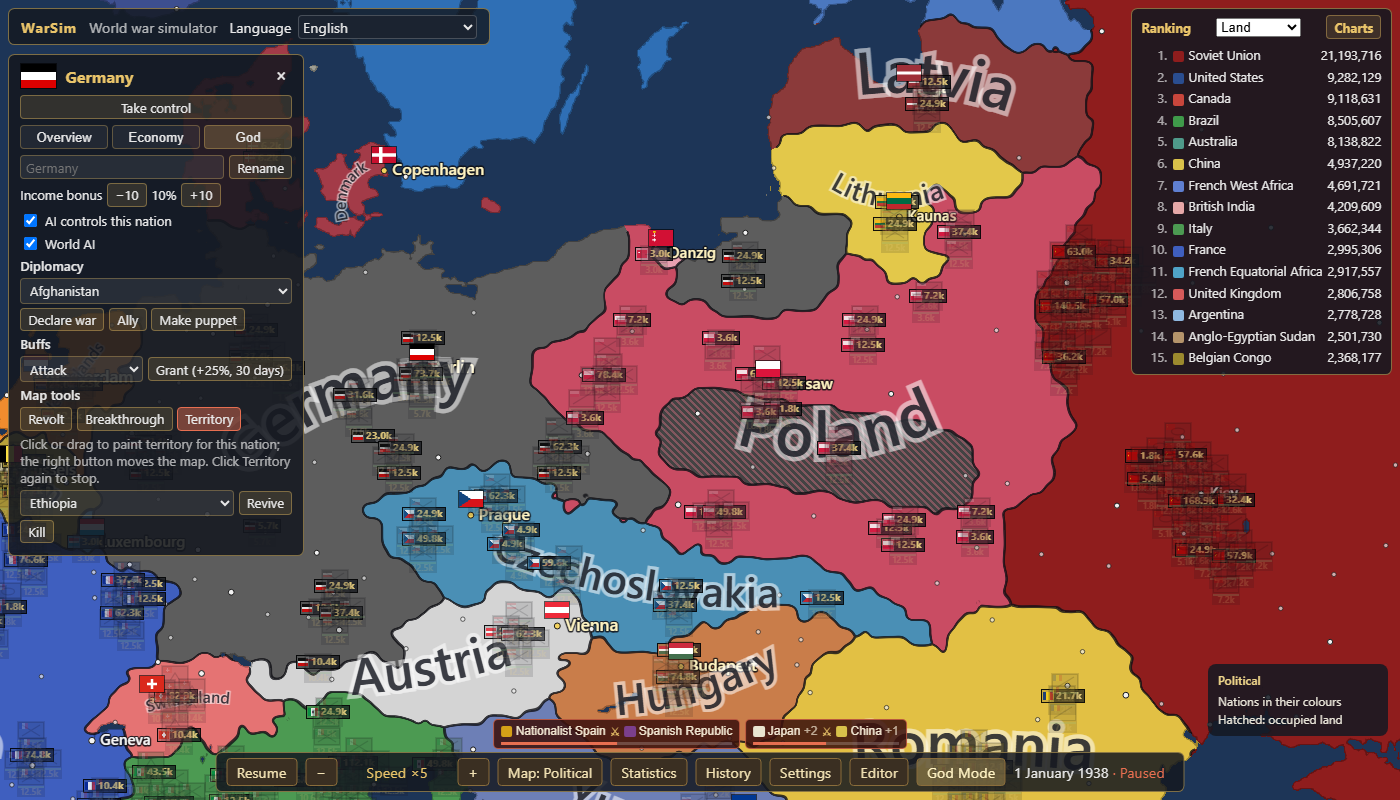
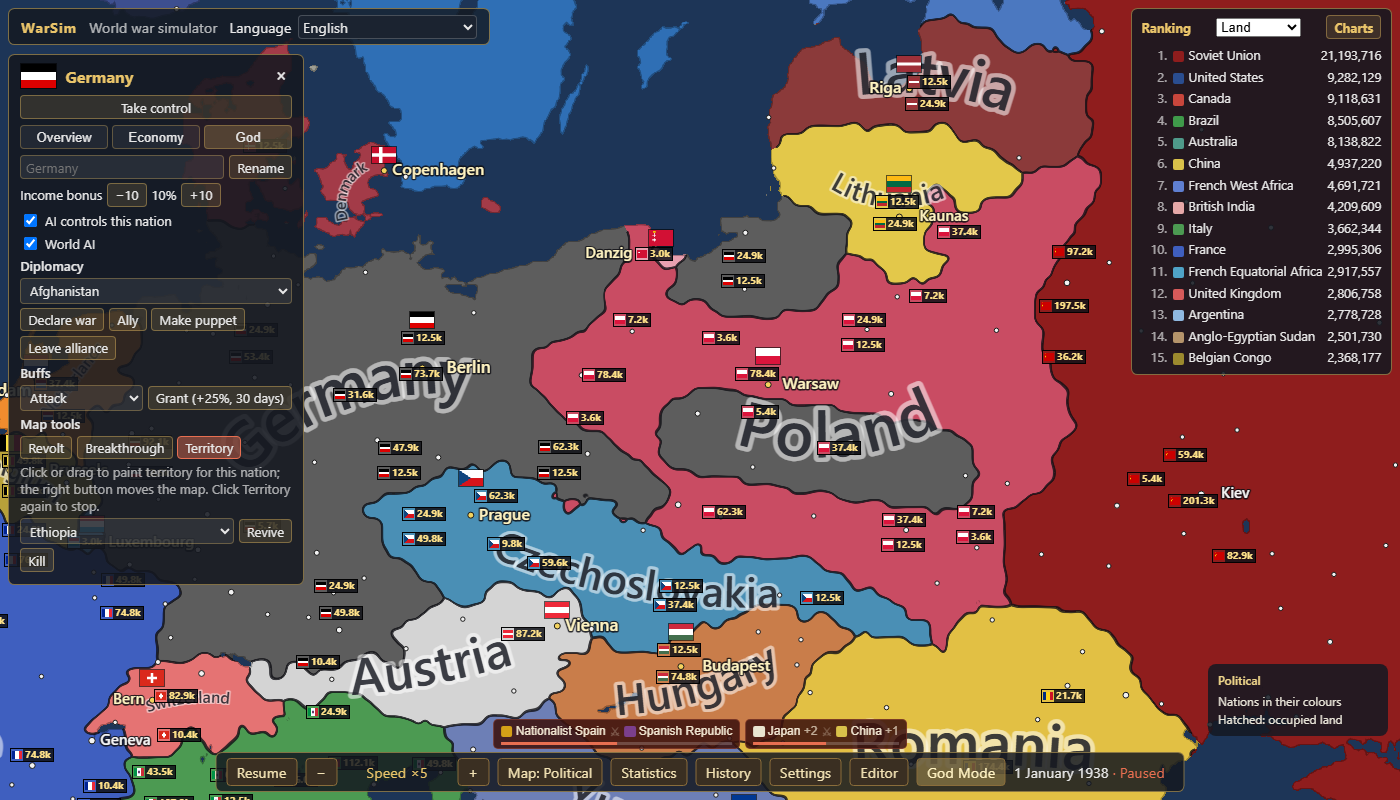
PLAN 2.17b: the Territory brush gives territory (ADR-118)
The God Mode brush sent paintControl, the controller alone: a drag from
France across the Alps left a hatched band and France's cells did not
rise (the critic's R2-B8). It sends the editor's nation paint now: owner
and controller, a stroke one step of the editor's undo history.
paintControl stays as the command of an occupation.

godUi1938.spec.ts has a fourth test, seen to fail first. The God test of
editorDrag1938.spec.ts asserted "owner unchanged" (PLAN 1.44b); it now
asserts the owner and the undo steps.

Claude-Session: https://claude.ai/code/session_01Rceg5hD1X4zLUbeCpn3Pjq

diff --git a/tests/e2e/godUi1938.spec.ts b/tests/e2e/godUi1938.spec.ts
@@ -270,3 +270,58 @@ test('a God action that is refused says why: Ally with a nation of another allia
   await expect(page.getByTestId('god-refusal')).toContainText('they are allies');
   expect(atWar(await inspect(page), FRA, ITA)).toBe(false);
 });
+
+// PLAN 2.17b (the critic's R2-B8): the Territory brush set the controller and not the owner. A
+// drag from France across the Alps left a hatched band, and France's cells rose by 0.
+test('the Territory brush gives territory: a drag from France across the Alps', async ({ page }, info) => {
+  test.setTimeout(120_000);
+  await page.setViewportSize({ width: 1400, height: 800 });
+  await page.goto('/?scenario=1938&paused=1&seed=1938');
+  await page.waitForFunction(() => (window.__warsim?.view?.frames ?? 0) > 0 && window.__warsim!.hud.stats.value !== null, null, { timeout: 60_000 });
+  await page.waitForFunction(() => window.__warsim!.sim.mapLayers !== null, null, { timeout: 60_000 });
+  const FRA = id('FRA');
+  const SCALE = 8;
+  const holders = (points: [number, number][]): Promise<number[]> => page.evaluate((ps) => ps.map(([x, y]) => window.__warsim!.view!.nationAt(x, y)), points);
+
+  await page.getByTestId('god-btn').click();
+  await lookAt(page, 2.5, 47);
+  await page.mouse.click(700, 400);
+  await expect(page.getByTestId('nation-panel')).toHaveAttribute('data-nation', String(FRA));
+  await page.getByTestId('tab-god').click();
+  await page.getByTestId('god-tool-brush').click();
+
+  // 250 px at 8 px a cell: from the Rhône valley over the Alps into the plain of the Po.
+  await lookAt(page, 7, 45.2, SCALE);
+  const from: [number, number] = [600, 400];
+  const to: [number, number] = [850, 400];
+  const way = Array.from({ length: 32 }, (_, i): [number, number] => [from[0] + ((to[0] - from[0]) * i) / 31, from[1]]);
+  const held = await holders(way);
+  expect(held[0]).toBe(FRA);
+  const foreign = held.filter((n) => n !== FRA).length;
+  expect(foreign).toBeGreaterThanOrEqual(10);
+  const before = await inspect(page);
+  const others = [...new Set(held.filter((n) => n !== FRA && n !== 0))];
+
+  await page.mouse.move(from[0], from[1]);
+  await page.mouse.down();
+  await page.mouse.move(to[0], to[1], { steps: 12 });
+  await page.mouse.up();
+  await expect.poll(async () => (await holders(way)).filter((n) => n !== FRA).length).toBe(0);
+
+  // France owns what it painted: its cells rose by what the nations under the stroke lost.
+  await expect.poll(async () => nation(await inspect(page), FRA).cells).toBeGreaterThan(nation(before, FRA).cells);
+  const after = await inspect(page);
+  const gained = nation(after, FRA).cells - nation(before, FRA).cells;
+  expect(gained).toBeGreaterThanOrEqual(foreign);
+  expect(others.reduce((a, n) => a + nation(before, n).cells - nation(after, n).cells, 0)).toBe(gained);
+  // No hatched band: owner and controller were painted as one edit, and one undo takes both back.
+  expect(after.edits).toEqual({ undo: 1, redo: 0 });
+  await expect(page.getByTestId('god-refusal')).toHaveCount(0);
+  const out = process.env['EVIDENCE'] ? path.resolve(import.meta.dirname, '../../docs/evidence/2.17') : info.outputPath();
+  mkdirSync(out, { recursive: true });
+  await page.evaluate(() => window.__warsim!.view!.select(0));
+  await page.waitForTimeout(600);
+  await page.screenshot({ path: path.join(out, 'god-brush-territory.png') });
+  await page.evaluate(() => window.__warsim!.sim.command({ kind: 'editUndo' }, true));
+  await expect.poll(async () => (await inspect(page)).rasters).toEqual(before.rasters);
+});

diff --git a/tests/e2e/editorDrag1938.spec.ts b/tests/e2e/editorDrag1938.spec.ts
@@ -10,7 +10,9 @@ import { NATIONS_1938, SIZE_1938 } from '../../src/sim/scenario1938';
 // removes the whole stroke; a right-drag pans and paints nothing; with no paint tool active a
 // left-drag pans as before.
 // PLAN 1.44b AT: with the God territory tool, a left-drag across ≥ 20 cells gives every cell
-// under its path to the selected nation's control and the camera does not move; a right-drag pans.
+// under its path to the selected nation and the camera does not move; a right-drag pans.
+// PLAN 2.17b (ADR-118): the land is the nation's, owner and controller (it was control alone),
+// and the stroke is one step of the editor's undo history.
 
 const { w: W, h: H } = SIZE_1938;
 const GER = NATIONS_1938.findIndex((n) => n.tag === 'GER') + 1;
@@ -218,10 +220,12 @@ test('God Mode: the territory brush paints on a left-drag; the right button pans
   await drag(page, from, to);
   await expect.poll(async () => (await holders(page, way)).filter((n) => n !== GER).length).toBe(0);
   expect(await camera(page)).toEqual(before);
-  // Control, not ownership: the land is occupied, and the selection is still Germany.
+  // Ownership with the control (PLAN 2.17b): the land is Germany's, in one undo step, and the
+  // selection is still Germany.
   const h1 = await rasters(page);
   expect(h1.controller).not.toBe(h0.controller);
-  expect(h1.owner).toBe(h0.owner);
+  expect(h1.owner).not.toBe(h0.owner);
+  expect(await edits(page)).toEqual({ undo: 1, redo: 0 });
   await expect(page.getByTestId('nation-panel')).toHaveAttribute('data-nation', String(GER));
   const out = process.env['EVIDENCE'] ? path.resolve(import.meta.dirname, '../../docs/evidence/1.44') : info.outputPath();
   mkdirSync(out, { recursive: true });
@@ -238,6 +242,13 @@ test('God Mode: the territory brush paints on a left-drag; the right button pans
   expect(await page.evaluate(() => window.__warsim!.view!.nationAt(760, 600))).not.toBe(GER);
   await page.mouse.click(760, 600);
   await expect.poll(() => page.evaluate(() => window.__warsim!.view!.nationAt(760, 600))).toBe(GER);
+  // The click is a stroke of its own; the two undone, the map is as it was.
+  expect(await edits(page)).toEqual({ undo: 2, redo: 0 });
+  const h3 = await rasters(page);
+  for (let i = 0; i < 2; i++) await page.evaluate(() => window.__warsim!.sim.command({ kind: 'editUndo' }, true));
+  await expect.poll(() => rasters(page)).toEqual(h0);
+  for (let i = 0; i < 2; i++) await page.evaluate(() => window.__warsim!.sim.command({ kind: 'editRedo' }, true));
+  await expect.poll(() => rasters(page)).toEqual(h3);
 
   // The tool off again: a left-drag pans and paints nothing.
   await page.getByTestId('god-tool-brush').click();

diff --git a/src/app/hud.ts b/src/app/hud.ts
@@ -260,21 +260,30 @@ export class Hud {
   /** Where the drag is: its tool, and the last point (brushes) or the press (line), in world cells. */
   private drag: { tool: 'brush' | 'line' | 'god'; x: number; y: number } | null = null;
 
-  /** A press at world (x, y): a brush stamps (the editor's opens a stroke); the line waits for the release. */
+  /**
+   * The God Mode territory brush (PLAN 2.17b): the editor's nation paint for the selected nation,
+   * owner and controller together, so the land is the nation's and not land it occupies. A
+   * dragged stroke is one step of the editor's undo history.
+   */
+  private godPaint(tool: 'brush' | 'line', x: number, y: number, x2: number, y2: number, stroke: 'start' | 'more'): void {
+    this.command({ kind: 'editPaint', layer: 'nation', tool, x, y, x2, y2, r: BRUSH_RADIUS, value: this.selected.value, mask: null, stroke });
+  }
+
+  /** A press at world (x, y): a brush stamps and opens a stroke; the line waits for the release. */
   dragStart(x: number, y: number): void {
     const tool = this.dragTool();
     if (!tool) return;
     this.drag = { tool, x, y };
     if (tool === 'brush') this.editPaint('brush', x, y, x, y, 'start');
-    else if (tool === 'god') this.command({ kind: 'paintControl', nation: this.selected.value, x, y, r: BRUSH_RADIUS });
+    else if (tool === 'god') this.godPaint('brush', x, y, x, y, 'start');
   }
 
-  /** The pointer entered another cell: a brush paints the way there (the editor's as part of its stroke). */
+  /** The pointer entered another cell: a brush paints the way there, as part of its stroke. */
   dragMove(x: number, y: number): void {
     const d = this.drag;
     if (!d || d.tool === 'line') return;
     if (d.tool === 'brush') this.editPaint('line', d.x, d.y, x, y, 'more');
-    else this.command({ kind: 'paintControl', nation: this.selected.value, x: d.x, y: d.y, r: BRUSH_RADIUS, x2: x, y2: y });
+    else this.godPaint('line', d.x, d.y, x, y, 'more');
     d.x = x;
     d.y = y;
   }

diff --git a/docs/PARITY.md b/docs/PARITY.md
@@ -50,7 +50,7 @@ by `npm run parity -- --write`; never hand-edit it. `npm run parity` fails if it
 | 32 | Observer-first play | No required action; the player watches and may intervene; God Mode is "not intended to be a playable mode" [TEXT 2026-10-02] | Observer default; God Mode and nation control optional (Phase 1 UI) | partial | `tests/e2e/player1938.spec.ts`, `tests/e2e/godUi1938.spec.ts` | 2026-10-03 (PLAN 1.31–1.33): the game starts as an observer; God Mode and taking control of a nation are opt-in from the bottom bar and the nation panel. |
 | 33 | God Mode: diplomatic actions | Attack, Peace, Ally, Break alliance, To Death, Revolt (choose nation), Donate, Kill, Puppet/Release; Shift chains actions [TEXT 2026-10-02] | God command set over the command log (Phase 1 God Mode) | partial | `tests/e2e/godMode1938.spec.ts`, `tests/unit/godMode.test.ts`, `tests/e2e/godUi1938.spec.ts`, `docs/evidence/1.32/god-tab.png`, `tests/unit/refusal.test.ts`, `docs/evidence/2.17/god-refusal.png` | Baseline: "force war/peace/alliance/collapse". 2026-10-02 (PLAN 1.32a): war, peace, alliance, To Death, revolt, Kill, puppet/release as commands with e2e effects via `__warsim`. Missing: Donate, Shift-chaining. UI (PLAN 1.32b): God Mode button → God tab on the selected nation, map tools for revolt, breakthrough and territory. 2026-10-05 (PLAN 2.17a, ADR-117): an action the sim refuses says why at the head of the God tab ("Not done: …"); Ally with a nation of another alliance is refused in words, and "Leave alliance" (AoC: Break alliance) is on the tab. Open: the Territory brush, a dead nation's land and name, Revive (PLAN 2.17b to 2.17e). |
 | 34 | God Mode: edits | Rename, recolour, edit gold, CE, revolt progress, income bonus, unity, loyalty, autonomy [TEXT 2026-10-02] | Same edits as deterministic commands | partial | `tests/e2e/godMode1938.spec.ts`, `tests/unit/godMode.test.ts`, `tests/e2e/godUi1938.spec.ts`, `docs/evidence/1.32/god-tab.png` | Baseline: "rename". 2026-10-02 (PLAN 1.32a): rename (saved), CE, revolt progress (unrest), income bonus, unity, loyalty, autonomy as commands. Missing: recolour, edit gold. UI (PLAN 1.32b): God Mode button → God tab on the selected nation, map tools for revolt, breakthrough and territory. |
-| 35 | God Mode: spawn tools | Spawn Nations (initial size slider), Spawn Revolt, Spawn/Remove Cities, Spawn Major Battle, Edit Territory/Terrain in game [TEXT+VISUAL 2026-10-02] | God spawn nation/revolt/battle/city; in-game paint | partial | `tests/e2e/godMode1938.spec.ts`, `tests/unit/godMode.test.ts`, `tests/e2e/godUi1938.spec.ts`, `docs/evidence/1.32/god-tab.png`, `tests/e2e/editorDrag1938.spec.ts`, `tests/unit/paintControl.test.ts`, `docs/evidence/1.44/god-brush-stroke.png` | Baseline: "spawn nation/revolt/battle". 2026-10-02 (PLAN 1.32a): spawn nation (revive on cores), spawn revolt (any province), spawn Major Battle (forced breakthrough), territory brush. Missing: new nations with a size slider, cities, terrain editing. UI (PLAN 1.32b): God Mode button → God tab on the selected nation, map tools for revolt, breakthrough and territory. PLAN 1.44b (2026-10-04): the in-game territory brush paints on a left-drag (every cell under its path), with the right or middle button moving the map. |
+| 35 | God Mode: spawn tools | Spawn Nations (initial size slider), Spawn Revolt, Spawn/Remove Cities, Spawn Major Battle, Edit Territory/Terrain in game [TEXT+VISUAL 2026-10-02] | God spawn nation/revolt/battle/city; in-game paint | partial | `tests/e2e/godMode1938.spec.ts`, `tests/unit/godMode.test.ts`, `tests/e2e/godUi1938.spec.ts`, `docs/evidence/1.32/god-tab.png`, `tests/e2e/editorDrag1938.spec.ts`, `tests/unit/paintControl.test.ts`, `docs/evidence/1.44/god-brush-stroke.png`, `docs/evidence/2.17/god-brush-territory.png` | Baseline: "spawn nation/revolt/battle". 2026-10-02 (PLAN 1.32a): spawn nation (revive on cores), spawn revolt (any province), spawn Major Battle (forced breakthrough), territory brush. Missing: new nations with a size slider, cities, terrain editing. UI (PLAN 1.32b): God Mode button → God tab on the selected nation, map tools for revolt, breakthrough and territory. PLAN 1.44b (2026-10-04): the in-game territory brush paints on a left-drag (every cell under its path), with the right or middle button moving the map. PLAN 2.17b (2026-10-05, ADR-118): the territory brush gives the land (owner and controller, the editor's nation paint; one undo step a stroke); it set control alone, and the critic saw a hatched band and no cell gained. |
 | 36 | God Mode: grant buffs | Custom buffs/debuffs can be assigned to nations [TEXT 2026-10-02] | God grant-buff command (PLAN 1.21) | partial | `tests/e2e/godMode1938.spec.ts`, `tests/unit/godMode.test.ts`, `tests/e2e/godUi1938.spec.ts`, `docs/evidence/1.32/god-tab.png` | 2026-10-02 (PLAN 1.32a): grantBuff/removeBuff commands, e2e effect. UI (PLAN 1.32b): God Mode button → God tab on the selected nation, map tools for revolt, breakthrough and territory. |
 | 37 | Take control of a nation | No direct control; closest is per-nation AI disable plus manual Actions on any nation [TEXT 2026-10-02] | Player controls one nation (orders, production) with its AI off | partial | `tests/e2e/player1938.spec.ts`, `docs/evidence/1.33/player-moved.png`, `tests/e2e/playerActions1938.spec.ts`, `docs/evidence/1.33/player-actions.png` | 2026-10-02 (PLAN 1.33a/b): Take control from the nation panel (AI off); click-select own formations, click to march/attack; Actions tab: declare war, offer peace (refused unless leading by 25 or the enemy is exhausted > 40), propose alliance (refused if allied, a puppet or at war), build templates with gold/manpower/time and a training queue. Goes beyond AoC (no direct control). Missing: box select, national template restrictions. 2026-10-05 (PLAN 2.16Rk, ADR-116): a selected formation that is gone leaves the selection and the bar's count, also when another nation's formation has taken its id; a player's order names its nation. |
 | 38 | Disable AI globally / per nation; World AI settings | Disable AI per nation; World AI Settings toggles (wars, alliances, leaving, unifications, revolts, razing, puppets, major battles, core purchases, donations, looping map …) persist [TEXT 2026-10-02] | Per-nation aiEnabled + global settings in scenario/save | partial | `tests/unit/strategicAi.test.ts`, `tests/e2e/godMode1938.spec.ts`, `tests/unit/godMode.test.ts` | 2026-10-02 (PLAN 1.32a): AI off per nation and globally (commands, e2e). Missing: the per-behaviour World AI toggles. |

diff --git a/DECISIONS.md b/DECISIONS.md
@@ -167,6 +167,48 @@ level directly; hillshade at higher zoom adds procedural detail (SPEC §8 T2/T3)
 runtime. Regenerating assets is idempotent (`npm run data -- --check` fails on drift), and
 `tests/unit/data-manifest.test.ts` verifies sha256, sizes, known places and pyramid consistency.
 
+### ADR-118 · 2026-10-05 · accepted — The God Mode territory brush gives the land: it sends the editor's nation paint (PLAN 2.17b)
+
+- **Context:** the critic's R2-B8: a drag of the Territory brush from France across the Alps
+  left a hatched band, and France's cells rose by 0. The brush sent `paintControl`, which sets
+  the controller alone: the band was land France occupied, of Italy and Switzerland, with no
+  war behind it. The hint says "paint territory for this nation". PLAN 1.44b had written the
+  control down as meant ("Control, not ownership", an assertion of `editorDrag1938.spec.ts`).
+- **Decision:**
+  - The brush sends `editPaint` on the nation layer for the selected nation (`Hud.godPaint`):
+    radius 5 as before, no mask, `brush` with `stroke: 'start'` at the press and `line` with
+    `stroke: 'more'` on the way. Owner and controller are set together, by the one function
+    that does it for the editor (`paint` in `src/sim/editor.ts`).
+  - A stroke is one step of the editor's undo history, and is saved with it. Ctrl+Z and
+    Ctrl+Y stay the editor's (they work while it is open); the God tab has no undo button.
+  - `paintControl` stays as it is. It is the command of an occupation: eight unit test files, the
+    replay test and `occupation1938.spec.ts` make occupied land with it, and a saved command
+    log may hold it. The page no longer sends it.
+  - The assertion of PLAN 1.44b that the owner raster is unchanged is turned round (the owner
+    raster changes, the stroke is one undo step, two undos give the first map). It stated the
+    behaviour this decision ends; nothing else of that test changed.
+- **Rejected:**
+  - *`paintControl` sets the owner too.* It would take the occupation out of the tests of
+    capture, war and revival, which need a cell held by one nation and owned by another.
+  - *A command of its own for the God brush.* It would be `paint` on the nation layer under
+    another name, without the undo.
+  - *No undo for a God stroke* (a paint that passes the stack by). The stack's diffs assume
+    that they see every paint of the layer; and an undo of a slip of the hand is wanted.
+- **Consequences:**
+  - What the editor's paint does not do, the God brush does not do either: formations of the
+    old owner stay where they stand, on land that is now another nation's and with no war; a
+    capital painted over stays the capital of a nation that no longer owns its cell until the
+    capital rules look at it; cores stay the provinces'. Seen in the screenshot (Italian
+    counters on the French band), not changed here: PLAN 2.17c looks at what a painted and
+    killed nation leaves.
+  - The brush can no longer make land that is controlled and not owned. What PLAN 2.17c has
+    left to find is whether another way leaves a dead nation such land.
+  - A drag across the seam of the map: `lineCells` wraps each cell's x, as `paintControl` did.
+  - The largest radius is the editor's 32 (it was 64); the brush uses 5.
+- **Evidence:** `tests/e2e/godUi1938.spec.ts` (the fourth test: failed first with France's
+  cells at 10,473 before and after the drag), `tests/e2e/editorDrag1938.spec.ts` (the God
+  test), `docs/evidence/2.17/god-brush-territory.png`.
+
 ### ADR-117 · 2026-10-05 · accepted — A command that is not carried out says why; Ally does not break an alliance, the God tab has "Leave alliance" for that (PLAN 2.17a)
 
 - **Context:** the critic's R2-B8: Ally with a nation of another alliance did nothing and said

diff --git a/SPEC.md b/SPEC.md
@@ -793,8 +793,10 @@ items take days and draw gold, industry and manpower. Upkeep runs monthly.
     the provinces', so it can revive there.
   - `winnerTakesAll` (a saved setting; command `setSetting`) annexes everything the loser
     controls, plus the loser's land the capturer already occupies.
-  - God brush `paintControl {nation, x, y, r}` sets control on land cells; with `x2, y2`, on the
-    cells within r of the segment to that point (the brush dragged, PLAN 1.44b).
+  - `paintControl {nation, x, y, r}` sets control on land cells; with `x2, y2`, on the
+    cells within r of the segment to that point. It is the command of occupation (tests, a
+    replay). The God Mode territory brush sent it until PLAN 2.17b and sends the editor's
+    nation paint since (ADR-118).
   - The war-score jump comes with 1.16.
 - **Capital capture**: the war score jumps, the capital relocates to the largest owned city, and with
   the `winnerTakesAll` setting the capturer annexes all of the loser's controlled territory.
@@ -1538,9 +1540,12 @@ on screen.
   tab to the nation panel. It has rename, income bonus ±10, AI switches (nation and world), war/
   ally/puppet on a chosen target, peace per war, buffs, revive (dead nations), Kill (two clicks).
   Map tools (revolt, breakthrough from two clicks, territory brush) take the next map clicks.
-  The territory brush also paints on a left-drag (PLAN 1.44b): a disc at the press, then
-  `paintControl` with `x2, y2` to every further cell the pointer enters; the right or middle
-  button pans meanwhile. It sets control, not ownership, and has no undo.
+  The territory brush also paints on a left-drag (PLAN 1.44b): a disc at the press, then the
+  way to every further cell the pointer enters; the right or middle button pans meanwhile.
+  It gives the land to the selected nation, owner and controller (PLAN 2.17b, ADR-118): it
+  sends the editor's `editPaint` on the nation layer (radius 5, no mask; `brush` with
+  `stroke: 'start'` at the press, `line` with `stroke: 'more'` after). A stroke is one step
+  of the editor's undo history; the keys of undo and redo work while the editor is open.
   God commands are sent with `now`: applied at once between ticks with the next step's tick
   stamp (`Sim.applyNow`), so they show while paused and replay identically.
 - **God Mode**: rename; force war, peace, alliance or collapse; spawn a nation, revolt or battle;

diff --git a/PROGRESS.md b/PROGRESS.md
@@ -6352,3 +6352,29 @@ No rule changed and nothing on screen changed. One task came out of it.
 - **After the commit (read, not run):** the words of a refusal stay on the tab when another
   nation is selected; logged under PLAN 2.17e and in ADR-117. `CommandRefused` does not reach
   the history log (its kinds are a list).
+
+## 2026-10-05 — PLAN 2.17b: the Territory brush gives territory (ADR-118)
+
+- **The defect:** the God brush sent `paintControl`, the controller alone. A drag from France
+  across the Alps: a hatched band, France's cells 10,473 before and after.
+- **The fix:** the brush sends the editor's `editPaint` on the nation layer (`Hud.godPaint`):
+  owner and controller, a stroke one step of the editor's undo history. `paintControl` is
+  not changed (the tests of occupation use it); the page no longer sends it. Nothing of
+  `src/sim` changed.
+- **Tests:** `godUi1938.spec.ts`, a fourth test, seen to fail first (the cells did not rise):
+  the drag, France's gain equal to the loss of the nations under the stroke, one undo step,
+  and the undo gives the first rasters. `editorDrag1938.spec.ts`, the God test: its
+  "owner unchanged" of PLAN 1.44b is turned round (ADR-118 says why), with the undo steps.
+- **Run by hand** (a part, ADR-87): `godUi1938`, `editorDrag1938`, `godMode1938`,
+  `occupation1938`, `editor1938`, `player1938` with `--project chromium`: 22 green (55 s).
+- **Looked at:** `docs/evidence/2.17/god-brush-territory.png`: the band from the Rhône over
+  the Alps into the plain of the Po is France's blue, with a plain border and no hatching.
+  `docs/evidence/1.44/god-brush-stroke.png` written anew by the same run.
+- **Seen, not changed:** Italian counters stand on the band, on French land with no war (the
+  editor's paint leaves them too). Logged under PLAN 2.17b for 2.17c.
+- **Not done:** no unit test (the change is in what the page sends; `paint` has its own);
+  no sweep (ADR-58); tick time not measured (no sim code changed).
+- **Next:** PLAN 2.17c, the dead nation's land and name. The brush no longer makes land that
+  is controlled and not owned: 2.17c is to find whether another way does.
+- **The pin did not move** (no sim input changed; the gate left the ten-year tests out).
+- **Gate:** green (code: typecheck, lint, unit 740, build, the two changed specs, parity; no full e2e for a part, ADR-87).

diff --git a/PLAN.md b/PLAN.md
@@ -2582,12 +2582,19 @@ quick sweep as a smoke test.
       `godUi1938.spec.ts` (a third test); both failed first.
     - Not done here: a finer reason for Revive (2.17d); the Kill of the last living nation
       (2.17c); the empty rename (2.17e).
-  - [ ] 2.17b **The Territory brush gives territory.** `paintControl` sets the controller
+  - [x] 2.17b **The Territory brush gives territory.** `paintControl` sets the controller
     only. It paints owner and controller as the editor's nation brush does (`paint` in
     `src/sim/editor.ts`: to be read for what of it the God brush may share, the undo history
     among it).
     AT: e2e through the God tab, failing first: a drag from France across the Alps raises
     France's cells, and no hatched band is left. A screenshot, looked at.
+    - Done 2026-10-05 (ADR-118): the brush sends `editPaint` on the nation layer
+      (`Hud.godPaint`); a stroke is one undo step of the editor's history. `paintControl`
+      stays, as the command of an occupation. `godUi1938.spec.ts` (a fourth test, failed
+      first: 10,473 cells before and after); the God test of `editorDrag1938.spec.ts` now
+      says owner and one undo step. `docs/evidence/2.17/god-brush-territory.png`.
+    - For 2.17c: the old owner's formations stay on the painted land (Italian counters on
+      the French band), as after an editor's paint.
   - [ ] 2.17c **A dead nation holds nothing and has no name on the map.** The band the brush
     left was France's control without ownership; after the Kill it stayed, with the name on
     it. To be found: whether 2.17b leaves any way to it (ADR-112 gives back what a dead
